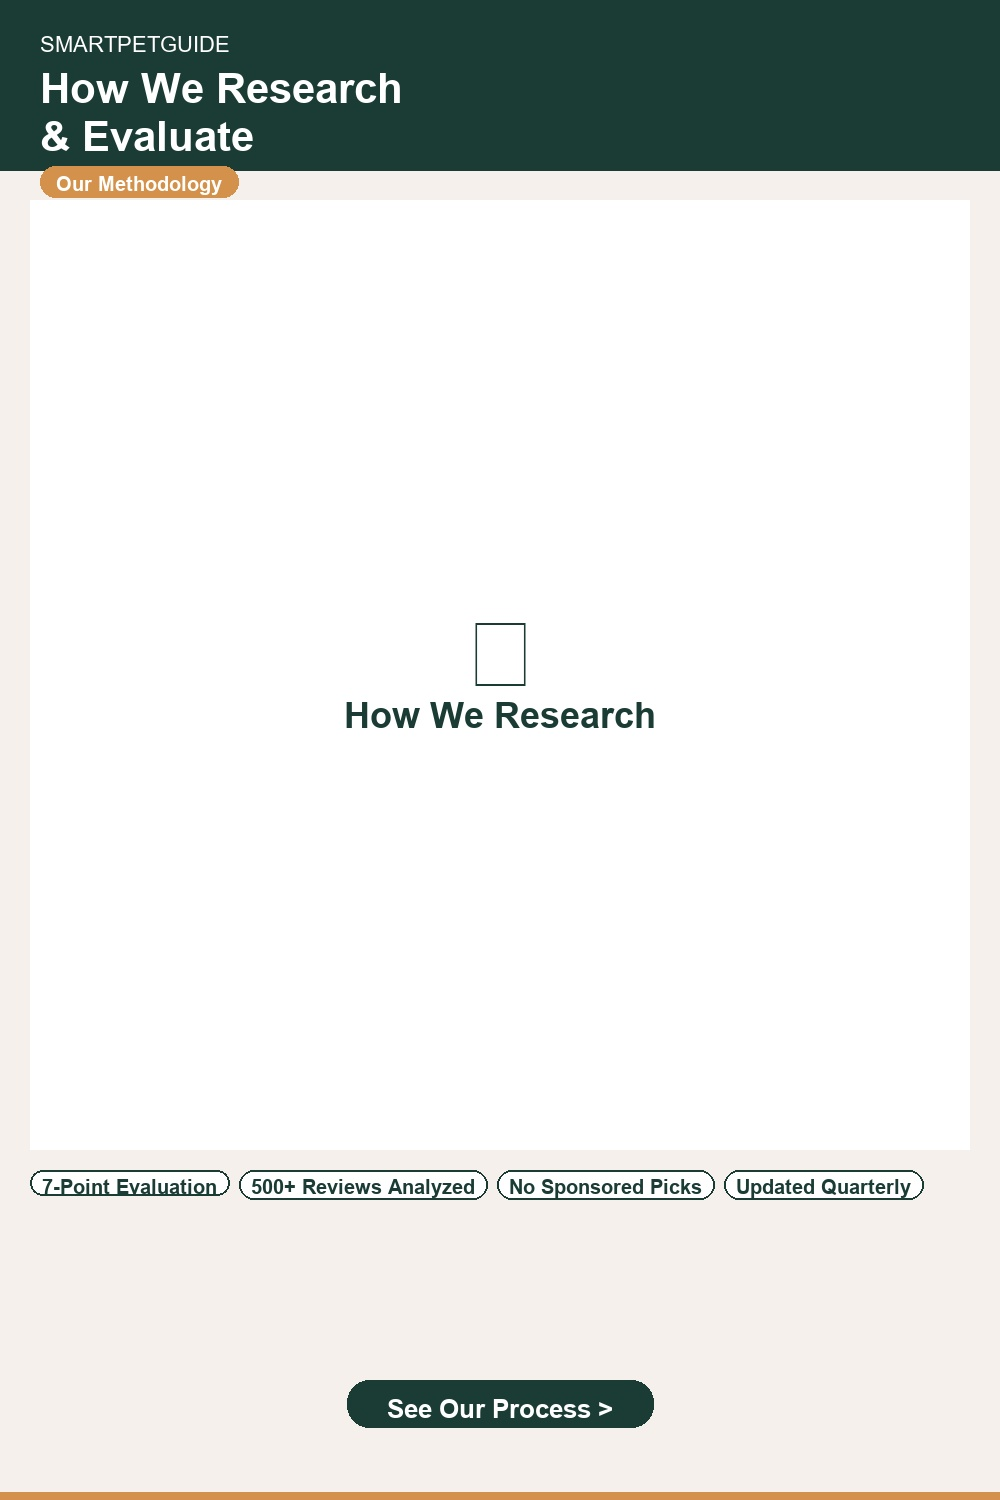
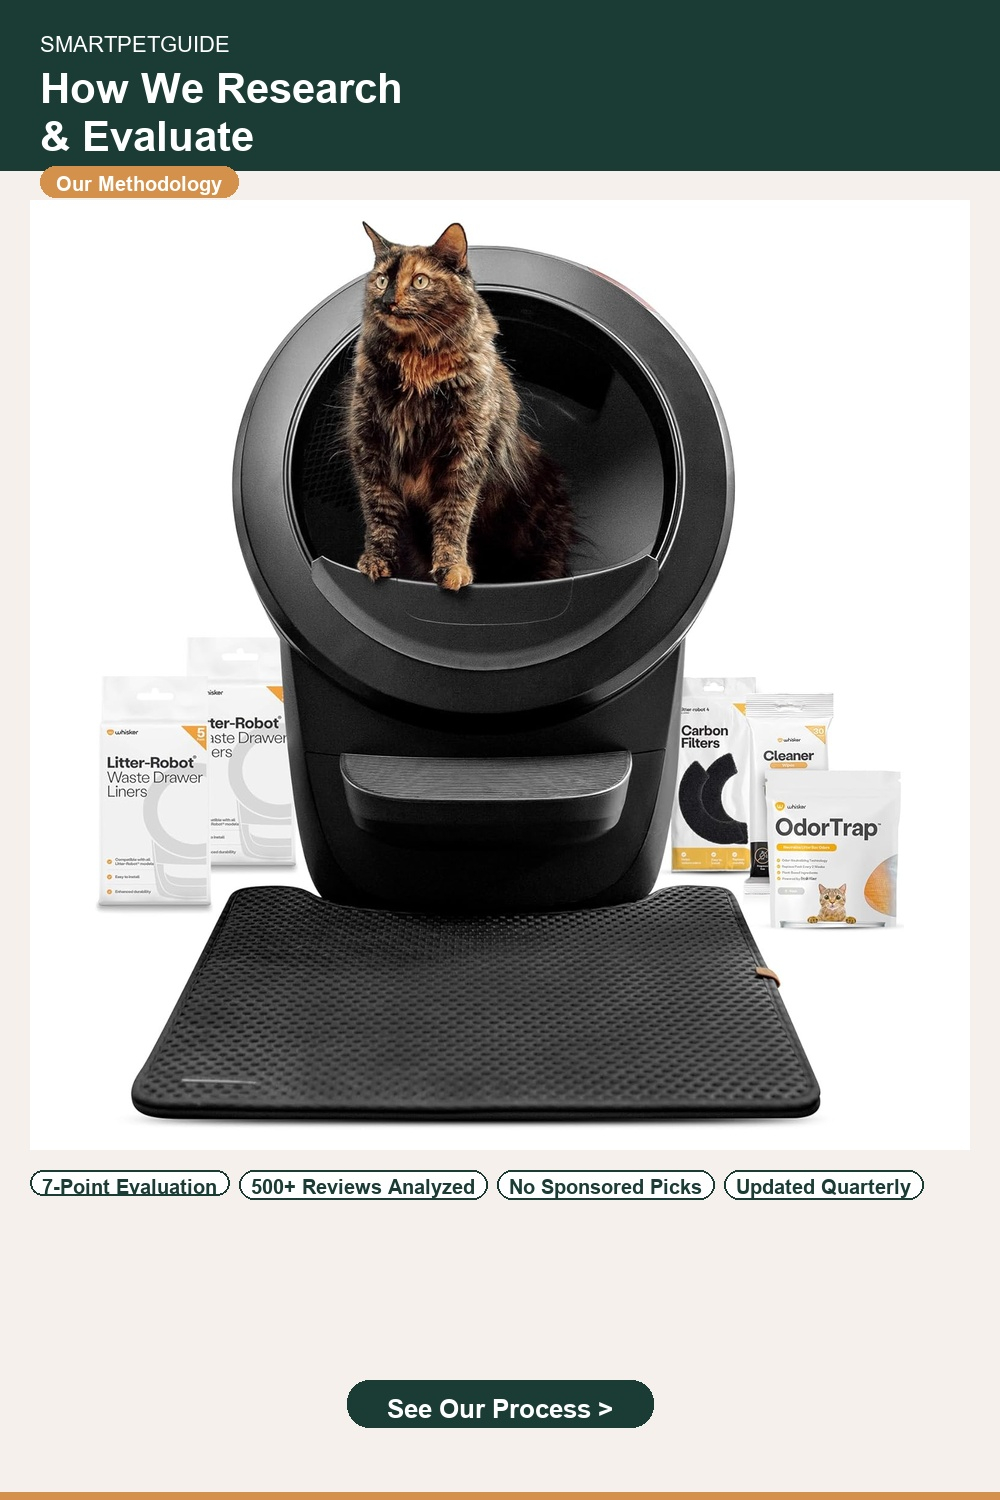
Day 21: LR5 vs LR4对比文 + 品牌outreach模板
- 新增Litter-Robot 5 vs 4对比文（12篇对比文）
- 品牌外链outreach邮件模板+25品牌联系方式
- 92页在线

Changed region(s): [[0.093, 0.1533, 0.899, 0.7667]]

diff --git a/pins/generate-r5-pins.py b/pins/generate-r5-pins.py
@@ -47,22 +47,20 @@ PINS = [
         "cta": "Read the Guide",
     },
     {
-        "id": "pin48", "img": None,  # icon-based
+        "id": "pin48", "img": "litter-robot-4.jpg",
         "brand": "SMARTPETGUIDE",
         "title": "How We Research\n& Evaluate",
         "badge": "Our Methodology",
         "tags": ["7-Point Evaluation", "500+ Reviews Analyzed", "No Sponsored Picks", "Updated Quarterly"],
         "cta": "See Our Process",
-        "icon": "🔍",
     },
     {
-        "id": "pin49", "img": None,
+        "id": "pin49", "img": "pioneer-pet-raindrop.jpg",
         "brand": "SMARTPETGUIDE",
         "title": "Products We\nDon't Recommend",
         "badge": "And Why",
         "tags": ["Discontinued Models", "Poor Performers", "Better Alternatives", "Honest Reasons"],
         "cta": "See the List",
-        "icon": "🚫",
     },
     {
         "id": "pin50", "img": "wopet-feeder.jpg",

diff --git a/backlinks/brand-outreach-template.md b/backlinks/brand-outreach-template.md
@@ -1,0 +1,74 @@
+# 品牌外链 Outreach 模板
+
+## 邮件模板
+
+```
+Subject: Featured your product on SmartPetGuide — press coverage?
+
+Hi [Brand Name] team,
+
+I run SmartPetGuide (smartpetguide.net), an independent review site covering smart pet devices. We recently featured your [Product Name] in our [review/comparison/best list]:
+
+[Link to our page featuring their product]
+
+Our analysis is based on verified owner reviews and marketplace data — we've evaluated 26 products across 6 categories.
+
+Would you consider adding us to your press coverage or "As Seen On" page? Happy to provide a logo or any assets you need.
+
+Best,
+SmartPetGuide Team
[email redacted]
+```
+
+## 目标品牌清单（26 款产品）
+
+### 猫砂盆
+| # | 品牌 | 产品 | 联系方式 |
+|---|------|------|------|
+| 1 | Whisker | Litter-Robot 5 / LR4 | [email redacted] |
+| 2 | Smarty Pear | Leo's Loo Too | [email redacted] |
+| 3 | PetSafe | ScoopFree | [email redacted] |
+| 4 | CATLINK | Young Pro | [email redacted] |
+| 5 | Elspet | Elspet Pro | [email redacted] |
+| 6 | Amazon Basics | Litter Box | (无PR，跳过) |
+
+### 喂食器
+| # | 品牌 | 产品 | 联系方式 |
+|---|------|------|------|
+| 7 | Petlibro | Granary | [email redacted] |
+| 8 | WOPET | Automatic Feeder | [email redacted] |
+| 9 | DOGNESS | Mini Feeder | [email redacted] |
+| 10 | PETKIT | Fresh Element | [email redacted] |
+
+### 饮水机
+| # | 品牌 | 产品 | 联系方式 |
+|---|------|------|------|
+| 11 | PETKIT | Eversweet | [email redacted] |
+| 12 | Catit | PIXI | [email redacted] |
+| 13 | Pioneer Pet | Raindrop | (被收购，跳过) |
+| 14 | YEAPAW | Steel Fountain | [email redacted] |
+| 15 | KittySpout | Steel Fountain | [email redacted] |
+| 16 | Homerunpet | Wireless Fountain | [email redacted] |
+
+### 摄像头
+| # | 品牌 | 产品 | 联系方式 |
+|---|------|------|------|
+| 17 | Furbo | Furbo 360 | [email redacted] |
+| 18 | Petcube | Bites 2 | [email redacted] |
+| 19 | eufy | Pet Camera | [email redacted] |
+| 20 | xpai | 4K Camera | [email redacted] |
+| 21 | Honey Tour | Robot Camera | (找官网联系方式) |
+| 22 | WOPET | Camera | [email redacted] |
+
+### GPS
+| # | 品牌 | 产品 | 联系方式 |
+|---|------|------|------|
+| 23 | Tractive | GPS LTE | [email redacted] |
+| 24 | No-Fee GPS | GPS Tracker | (找官网联系方式) |
+| 25 | Aorkuler | GPS Tracker | [email redacted] |
+
+## 执行建议
+1. 先从有 PR/Marketing 邮箱的品牌开始（Whisker/ PETKIT/ Petlibro）
+2. 每次发 5 封，间隔 30 分钟，避免被标记 spam
+3. 记录发送日期和回复状态
+4. 预期回复率 20-30%，目标获取 3-5 个外链

diff --git a/progress.md b/progress.md
@@ -1551,4 +1551,25 @@ Codex 审查报告发现 3 个 P0 + 多个 P1 问题，晚上紧急修复。
 3. 品类 OG 分享图
 
 ---
+## 会话：2026-06-11（Day 20 周四）— Week 4 内容生产 + R5 Pin
+
+### 完成事项
+- [x] **Litter-Robot 5 评测**（B+，$799，WasteID，#1 vs #2 检测）— 新品首发评测
+- [x] **Wet Food Automatic Feeder Guide**（C 级）— 湿粮喂食器 2026 新品 + 混合喂养法
+- [x] **LR5 产品入库** — products.json +1，Best 列表自动同步
+- [x] **R5 Pin 46-48 发布** — Fountain Filter + Litter Box Intro + How We Research
+- [x] **Pin 48-49 图片修正** — emoji 图标→真实产品图（LR4 + Pioneer Pet）
+- [x] **外链方案** — 品牌 outreach + Guest Post + HARO/Qwoted（替代无效资源页）
+- [x] Vercel 部署：91 页，全验证通过
+
+### 现状
+- 产品 26 款，Pin 54 个，GSC 索引 12
+- Pinterest 停更导致浏览归零（正常，恢复发布即可）
+
+### 下次会话（6/12 周五）
+1. Pin 49-53 发布（需你操作）
+2. 品牌外链 outreach
+3. 品类 OG 图
+
+---
 *每个阶段完成后或遇到错误时更新此文件*

diff --git a/dashboard.md b/dashboard.md
@@ -1,6 +1,6 @@
 # SmartPetGuide 任务仪表盘
 
-**最后更新：2026-06-06（Week 3 收盘）**
+**最后更新：2026-06-11（Week 4 Day 20）**
 **Git：~84 commits**
 
 ---
@@ -68,17 +68,15 @@
 
 ## 📊 当前关键数字
 
-| 指标 | Day 6 (5/24) | Week 3 (6/6) | 变化 |
+| 指标 | Day 6 (5/24) | Week 4 (6/11) | 变化 |
 |------|:--:|:--:|------|
-| 页面 | 71 | **89** | +18 |
+| 页面 | 71 | **91** | +20 |
 | GSC 已索引 | 5 | **12** | +140% |
-| GSC 曝光 (3月) | 4 | **25** | +525% |
-| GSC 点击 | 1 | **1** | — |
-| Pinterest 活跃 Pin | 9 | **51** | +42 |
-| Pinterest 月浏览 | 5 | **2,367** | +473x |
+| Pinterest 活跃 Pin | 9 | **54** | +45 |
+| 产品数 | 18 | **26** | +8 |
 | 外链引用域名 | 1 | **11** | +10 |
 | Amazon 佣金 | $0 | $0 | — |
-| 审查 P0/P1 | 0/7 | **7/7** | ✅ 全部完成 |
+| 审查 P0/P1 | 0/7 | **7/7** | ✅ |
 
 ---
 

diff --git a/task_plan.md b/task_plan.md
@@ -4,7 +4,7 @@
 日均 UV 3000-10000，月收入 $500-2000（12个月目标）
 
 ## 当前阶段
-**Day 16（6/4-5）** | 89 页在线 | Pinterest 51 Pin | 外链 11 个引用域名 | R4 全部完成 | 审计 P0/P1 全部修复
+**Week 4（6/11）** | 91 页在线 | Pinterest 54 Pin（R5 4/8） | 外链 11 个引用域名 | LR5 评测上线（新品首发）
 
 ---
 
@@ -371,7 +371,7 @@
 | 周五 6/5 | ✅ Litter Box Intro Guide + ✅ Amazon NR扫描 + ✅ 核心评测增强 + ✅ P1-1 OG图片 + ✅ P1-3 Review Schema | 1篇+增强+P1×2 | ✅ |
 | 周六 6/6 | 周复盘 + Pinterest 数据周检 + GSC 检查 + 项目文件同步 | 数据 + 同步 | ⏳ |
 
-**✅ Week 3 收盘（6/6）：5 篇新指南 + 2 新信息页（89 页）+ Pin R4 全部完成（51 Pin）+ 审查报告 P0/P1 7/7 + Pinterest 月浏览 2,367（+36%）**
+**Week 4 进行中（6/11）：2 篇新内容（91 页）+ LR5 产品入库 + R5 4/8 Pin 发布 + 外链方案已定**
 
 #### 关键原则
 - **不要在第 5 个站就停下来** → SmartPetGuide 才 70 篇，远没到该停的阶段
@@ -385,13 +385,13 @@
 
 | 类型 | 数量 | 内容 |
 |------|------|------|
-| 评测（Reviews） | 25 | 猫砂盆×6 / 喂食器×4 / 饮水机×6 / 摄像头×6 / GPS×3 |
+| 评测（Reviews） | 26 | 猫砂盆×7 / 喂食器×4 / 饮水机×6 / 摄像头×6 / GPS×3 |
 | 对比（Compare） | 11 | 猫砂盆×3 / 喂食器×2 / 饮水机×2 / 摄像头×3 / GPS×1 |
 | Best 列表 | 9 | 全品类覆盖 + 细分专题 |
-| 指南（Guides） | 28 | 5 购买 + 5 场景 + 3 Starter Kit + 3 长尾 + 4 保养/预算 + 1 份量 + 1 滤芯 + 1 猫砂盆入门 + 3 其他 |
+| 指南（Guides） | 29 | 5 购买 + 5 场景 + 3 Starter Kit + 3 长尾 + 4 保养/预算 + 1 份量 + 1 滤芯 + 1 猫砂盆入门 + 1 湿粮 + 3 其他 |
 | 品种（Breed） | 7 | 法斗/金毛/拉布拉多/德牧/多猫/老猫/小狗 |
 | 信息页 | 11 | 首页/关于/How We Research/不推荐产品/隐私/联盟披露/分类索引×4/404 |
-| **总计** | **89** | **全品类全覆盖** |
+| **总计** | **91** | **全品类全覆盖（26款产品）** |
 
 ### 质量指标
 - Hemingway Grade 8（全部 21 篇评测已达标）